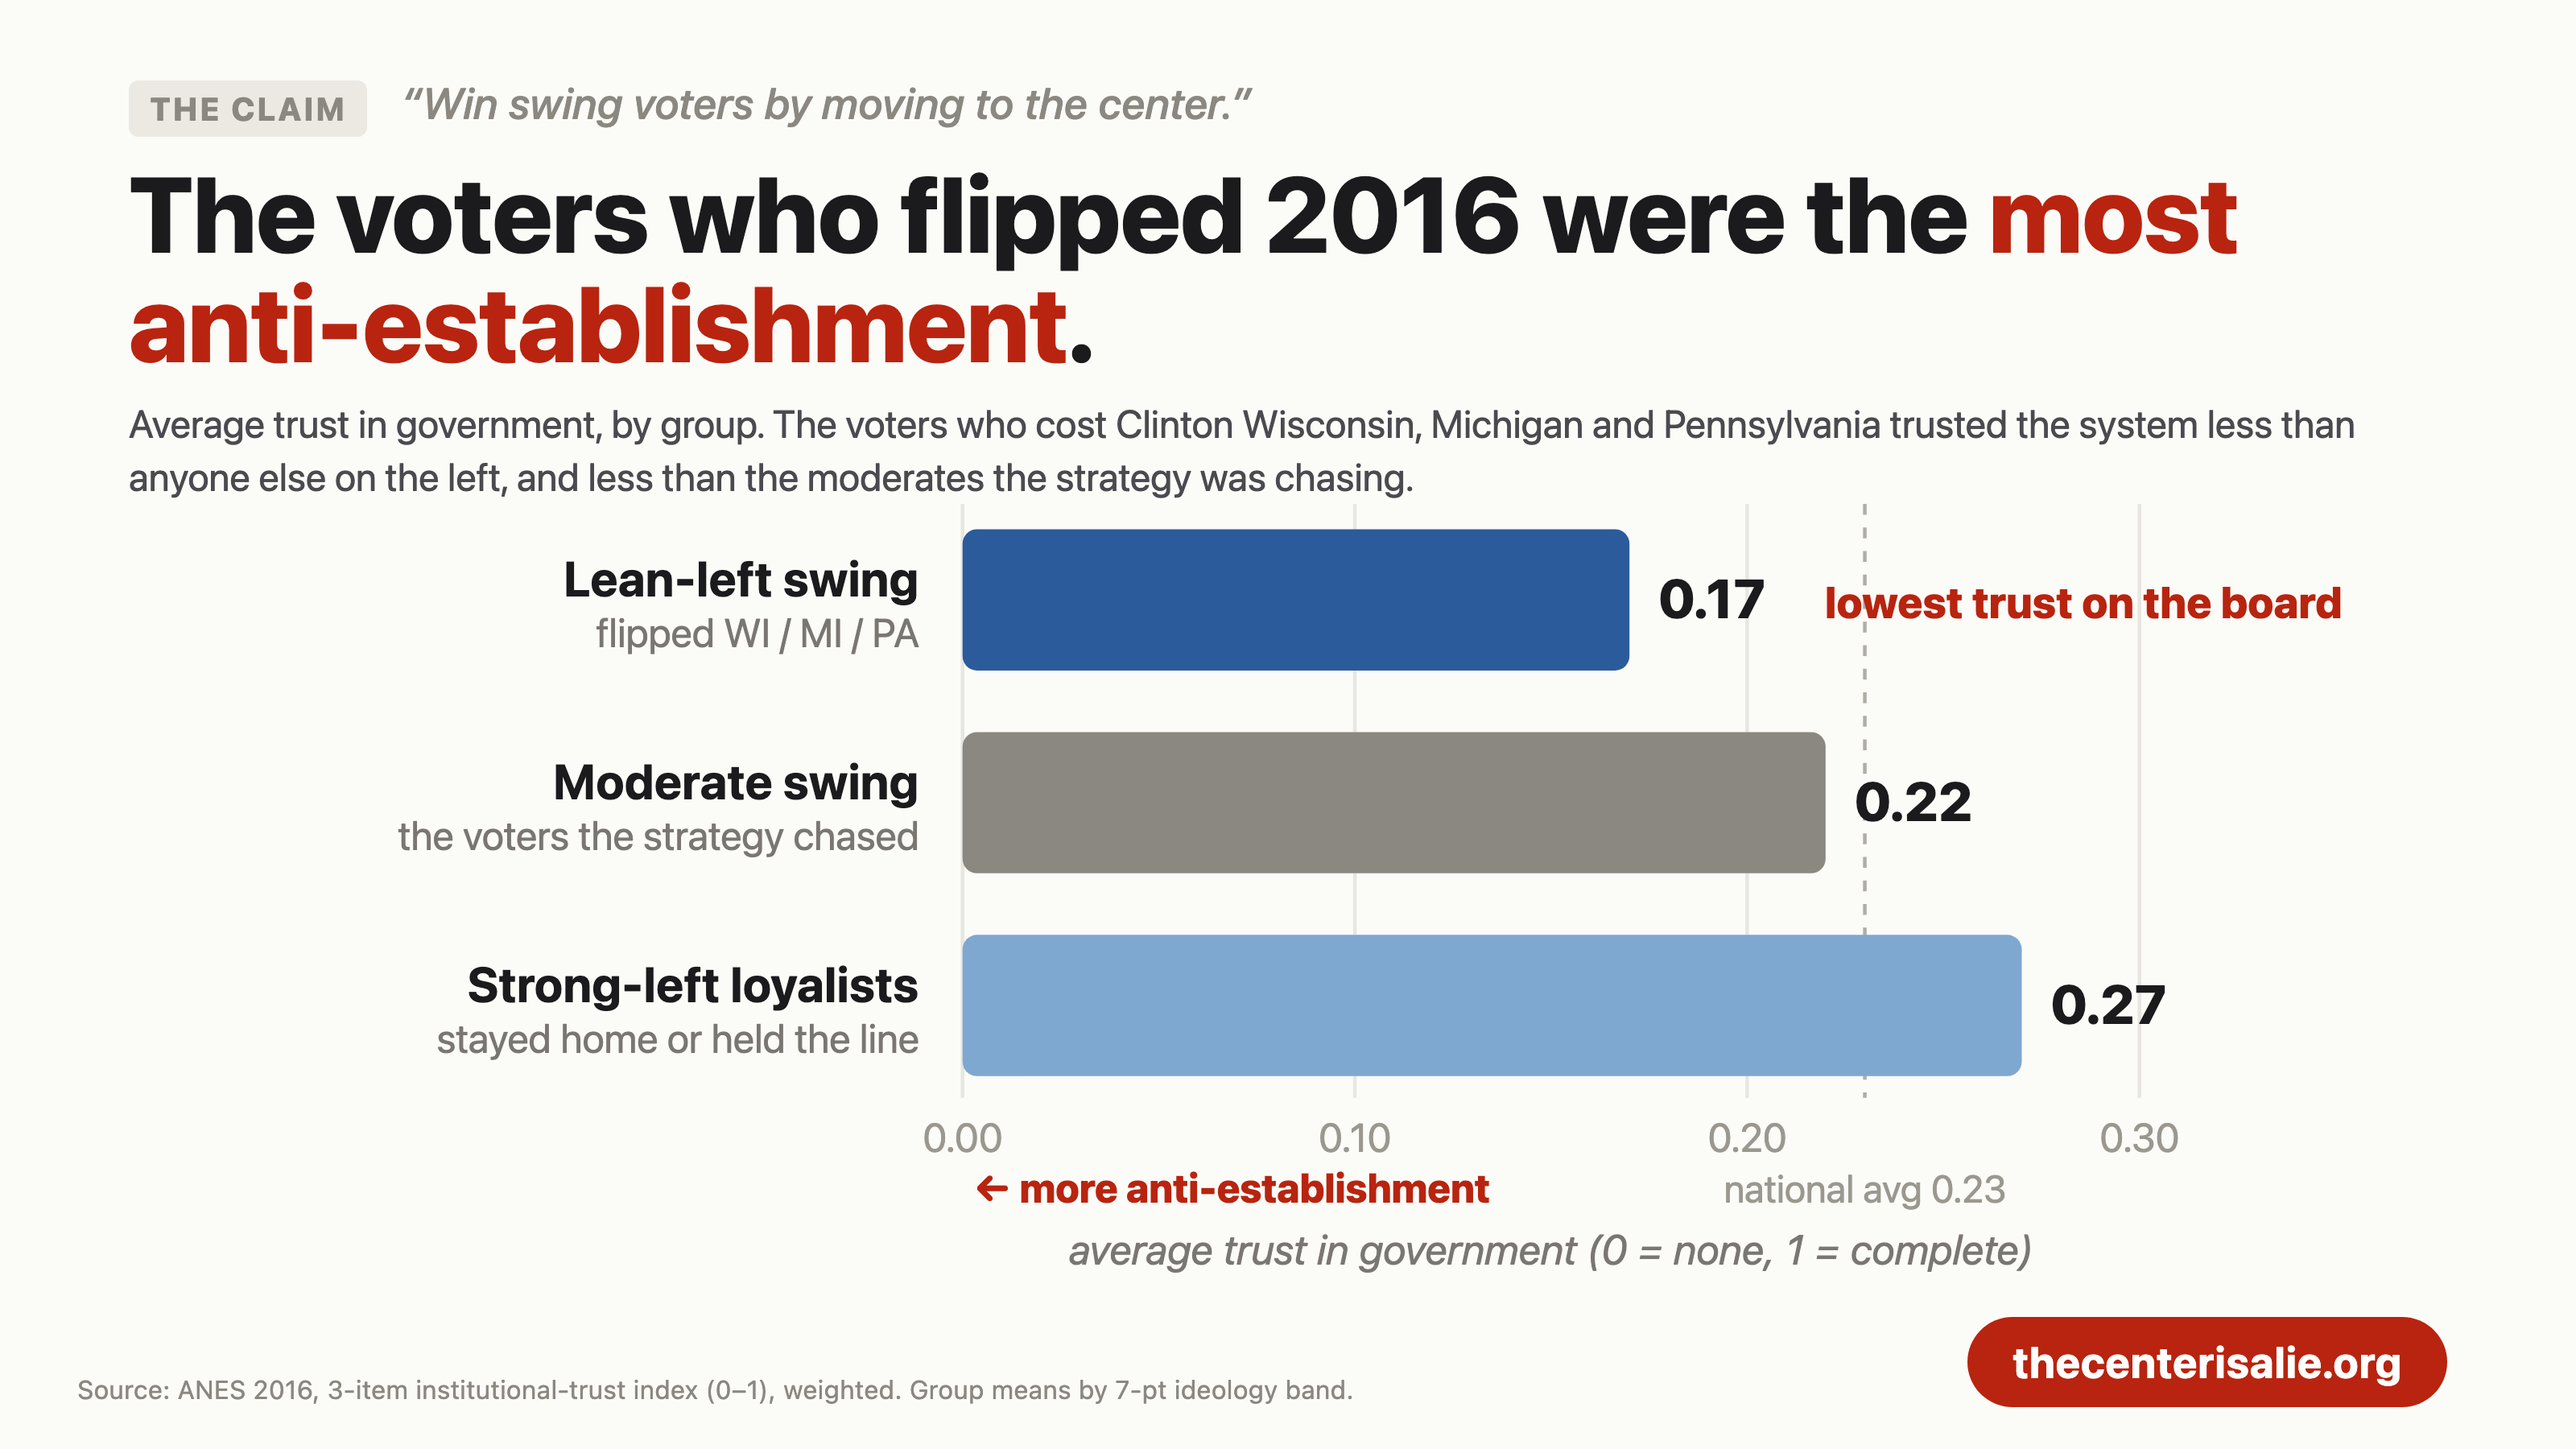
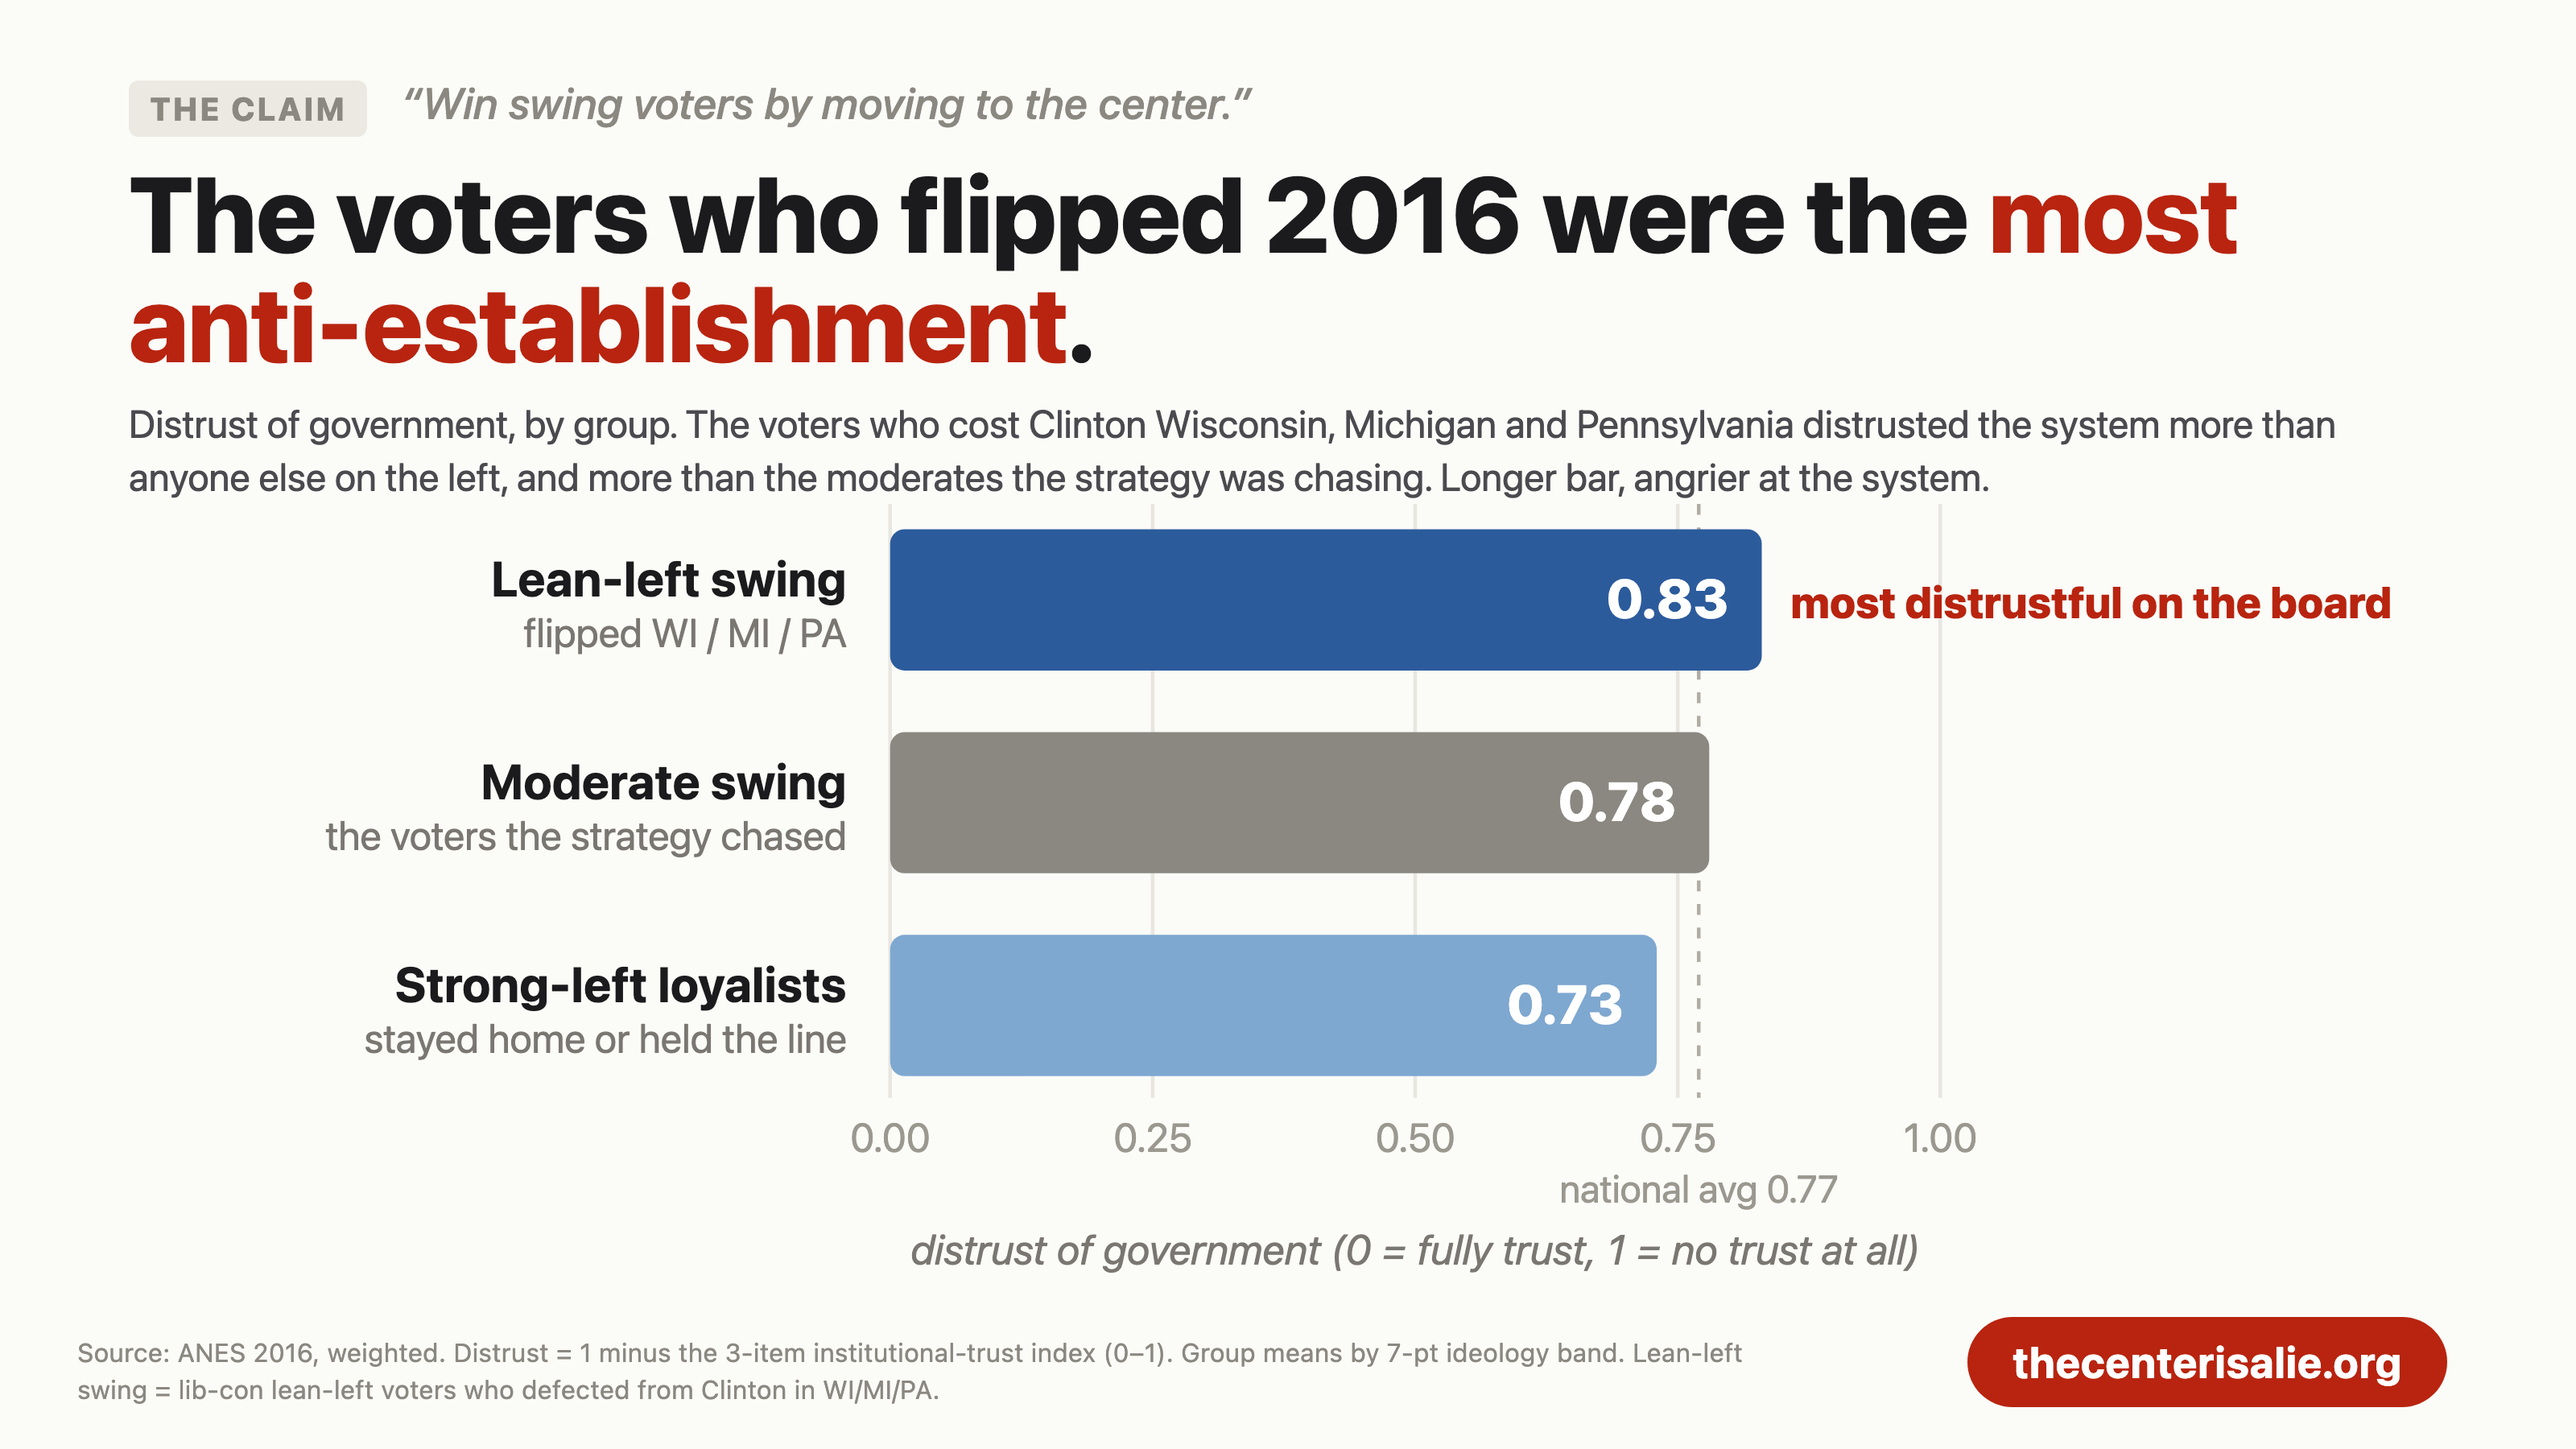
fix(og): reframe care to stakes-not-affection; badtrade to a distrust axis; alienated purple
care: the old framing ("people vote when it matters, nothing else comes close")
was tautological and invited "so just make them care." Reframed to the
non-obvious finding: turnout runs on stakes/fear, and warmth toward your own
candidate is slightly NEGATIVE, so a campaign optimising to be liked and
inoffensive is optimising the wrong variable. NOTE: the user proposed the
take-home should be "trust". That does not survive -- this project's own
corrected finding is that institutional trust does not predict turnout (approx
0); turnout tracks stakes, engagement and education. Built the honest version
and said so in the source line.

badtrade: plotted distrust (1 - trust) instead of trust so the flippers are the
LONGEST bar, fixing the bigger-reads-as-better inversion the user flagged. Full
0-1 axis, no truncation. Accepts the compression (0.73-0.83) as the honest cost.

alienated: swapped the red voter-category bar to purple per the colour rule.

diff --git a/web/og-cards/chart-badtrade.html b/web/og-cards/chart-badtrade.html
@@ -4,13 +4,13 @@
   <div class="chartcard">
     <div class="cc-claim"><span class="tag">The claim</span> &ldquo;Win swing voters by moving to the center.&rdquo;</div>
     <div class="cc-title">The voters who flipped 2016 were the <span class="hl">most anti-establishment</span>.</div>
-    <div class="cc-sub">Average trust in government, by group. The voters who cost Clinton Wisconsin, Michigan and Pennsylvania trusted the system less than anyone else on the left, and less than the moderates the strategy was chasing.</div>
+    <div class="cc-sub">Distrust of government, by group. The voters who cost Clinton Wisconsin, Michigan and Pennsylvania distrusted the system more than anyone else on the left, and more than the moderates the strategy was chasing. Longer bar, angrier at the system.</div>
 
     <div class="cc-chart"><svg id="bt" viewBox="0 0 1240 449" role="img"
-      aria-label="Average institutional trust: lean-left swing 0.17, moderate swing 0.22, strong-left loyalists 0.27"></svg></div>
+      aria-label="Distrust of government by group: lean-left swing 0.83, moderate swing 0.78, strong-left loyalists 0.73. The voters who flipped are the most distrustful."></svg></div>
 
     <div class="cc-foot">
-      <div class="cc-source">Source: ANES 2016, 3-item institutional-trust index (0&ndash;1), weighted. Group means by 7-pt ideology band.</div>
+      <div class="cc-source">Source: ANES 2016, weighted. Distrust = 1 minus the 3-item institutional-trust index (0&ndash;1). Group means by 7-pt ideology band. Lean-left swing = lib-con lean-left voters who defected from Clinton in WI/MI/PA.</div>
       <div class="cc-btn">thecenterisalie.org</div>
     </div>
   </div>
@@ -20,26 +20,24 @@
     const svg = document.getElementById('bt');
     const el = (t, a) => { const n = document.createElementNS(NS, t); for (const k in a) n.setAttribute(k, a[k]); return n; };
     const rows = [
-      { name: 'Lean-left swing', sub: 'flipped WI / MI / PA', v: 0.17, c: '#2c5b9c', hot: true },
-      { name: 'Moderate swing', sub: 'the voters the strategy chased', v: 0.22, c: '#8a8880' },
-      { name: 'Strong-left loyalists', sub: 'stayed home or held the line', v: 0.27, c: '#7ea8d0' },
+      { name: 'Lean-left swing', sub: 'flipped WI / MI / PA', v: 0.83, c: '#2c5b9c', hot: true },
+      { name: 'Moderate swing', sub: 'the voters the strategy chased', v: 0.78, c: '#8a8880' },
+      { name: 'Strong-left loyalists', sub: 'stayed home or held the line', v: 0.73, c: '#7ea8d0' },
     ];
-    const X0 = 440, X1 = 1090, VMAX = 0.30, sc = (X1 - X0) / VMAX;
+    const X0 = 400, X1 = 980, VMAX = 1.0, sc = (X1 - X0) / VMAX;
     const barH = 78, step = 112, y0 = 14, axisY = y0 + rows.length * step - 22;
-    // gridlines + ticks
-    for (let v = 0; v <= 0.3001; v += 0.10) {
+    // gridlines + ticks across the full 0-1 range, so there is no truncation
+    for (let v = 0; v <= 1.0001; v += 0.25) {
       const gx = X0 + v * sc;
       svg.appendChild(el('line', { x1: gx, y1: 0, x2: gx, y2: axisY, stroke: '#e8e6e0', 'stroke-width': 2 }));
       const t = el('text', { x: gx, y: axisY + 30, 'text-anchor': 'middle', fill: '#9a988f', 'font-size': 22 }); t.textContent = v.toFixed(2); svg.appendChild(t);
     }
-    // national-average reference
-    const nx = X0 + 0.23 * sc;
+    // national-average reference (distrust = 1 - 0.23)
+    const nx = X0 + 0.77 * sc;
     svg.appendChild(el('line', { x1: nx, y1: 0, x2: nx, y2: axisY, stroke: '#b0ada4', 'stroke-width': 2, 'stroke-dasharray': '6 7' }));
-    const nl = el('text', { x: nx, y: axisY + 58, 'text-anchor': 'middle', fill: '#9a988f', 'font-size': 21 }); nl.textContent = 'national avg 0.23'; svg.appendChild(nl);
+    const nl = el('text', { x: nx, y: axisY + 58, 'text-anchor': 'middle', fill: '#9a988f', 'font-size': 21 }); nl.textContent = 'national avg 0.77'; svg.appendChild(nl);
     const at = el('text', { x: (X0 + X1) / 2, y: axisY + 92, 'text-anchor': 'middle', fill: '#7a7772', 'font-size': 23, 'font-style': 'italic' });
-    at.textContent = 'average trust in government (0 = none, 1 = complete)'; svg.appendChild(at);
-    const ar = el('text', { x: X0 + 6, y: axisY + 58, 'text-anchor': 'start', fill: '#b8240f', 'font-size': 22, 'font-weight': 800 });
-    ar.textContent = '\u2190 more anti-establishment'; svg.appendChild(ar);
+    at.textContent = 'distrust of government (0 = fully trust, 1 = no trust at all)'; svg.appendChild(at);
     // bars
     rows.forEach((r, i) => {
       const yTop = y0 + i * step, mid = yTop + barH / 2;
@@ -47,9 +45,9 @@
       if (r.sub) { const s = el('text', { x: X0 - 24, y: mid + 26, 'text-anchor': 'end', fill: '#7a7772', 'font-size': 22 }); s.textContent = r.sub; svg.appendChild(s); }
       const w = r.v * sc;
       svg.appendChild(el('rect', { x: X0, y: yTop, width: w, height: barH, rx: 8, fill: r.c }));
-      const val = el('text', { x: X0 + w + 16, y: mid + 10, fill: '#1b1b1d', 'font-size': 30, 'font-weight': 800 }); val.textContent = r.v.toFixed(2); svg.appendChild(val);
-      if (r.hot) { const cl = el('text', { x: X0 + w + 108, y: mid + 10, fill: '#b8240f', 'font-size': 24, 'font-weight': 800 });
-        cl.textContent = 'lowest trust on the board'; svg.appendChild(cl); }
+      const val = el('text', { x: X0 + w - 18, y: mid + 10, 'text-anchor': 'end', fill: '#fff', 'font-size': 30, 'font-weight': 800 }); val.textContent = r.v.toFixed(2); svg.appendChild(val);
+      if (r.hot) { const cl = el('text', { x: X0 + w + 16, y: mid + 10, fill: '#b8240f', 'font-size': 24, 'font-weight': 800 });
+        cl.textContent = 'most distrustful on the board'; svg.appendChild(cl); }
     });
   </script>
 </body></html>

diff --git a/web/og-cards/chart-care.html b/web/og-cards/chart-care.html
@@ -2,15 +2,15 @@
 <html lang="en"><head><meta charset="utf-8"><link rel="stylesheet" href="./chart-card.css"></head>
 <body>
   <div class="chartcard">
-    <div class="cc-claim"><span class="tag">The claim</span> &ldquo;Low turnout is a mobilization-tactics problem.&rdquo;</div>
-    <div class="cc-title">People vote when the result <span class="hl">matters to them</span>. Nothing else comes close.</div>
-    <div class="cc-sub">2016 turnout, by whether the voter said they cared a good deal who won.</div>
+    <div class="cc-claim"><span class="tag">The claim</span> &ldquo;Fix turnout with better outreach: more doors, more ads, more enthusiasm.&rdquo;</div>
+    <div class="cc-title">People show up when the stakes are real, <span class="hl">not when they like you</span>.</div>
+    <div class="cc-sub">2016 turnout, by whether the voter felt the result mattered. That gap is the single biggest turnout lever in the data, and it survives even among low-engagement voters (52% vs 26%). Warmth toward your own candidate, by contrast, doesn&rsquo;t move turnout at all. A campaign that runs as the safe, inoffensive choice is lowering the one thing turnout depends on.</div>
 
     <div class="cc-chart"><svg id="care" viewBox="0 0 1240 449" role="img"
       aria-label="Turnout in 2016: 70.5% among voters who cared a good deal who won, 35.9% among those who did not"></svg></div>
 
     <div class="cc-foot">
-      <div class="cc-source">Source: ANES 2016; self-reported turnout by &ldquo;how much do you care who wins&rdquo;; weighted.</div>
+      <div class="cc-source">Source: ANES 2016, weighted; self-reported turnout by &ldquo;care a good deal who wins&rdquo; (V161005 &times; V162031x). The gap holds among low-engagement voters (52% vs 26%). In the weighted turnout model, &ldquo;care who wins&rdquo; is the top predictor and warmth-to-favorite is slightly negative (&minus;0.10); institutional trust does not predict turnout.</div>
       <div class="cc-btn">thecenterisalie.org</div>
     </div>
   </div>
@@ -22,8 +22,8 @@
     const txt = (a, s) => { const t = el('text', a); t.textContent = s; svg.appendChild(t); return t; };
 
     const rows = [
-      { name: 'Cared a good deal', v: 70.5, col: '#b8240f' },
-      { name: 'Didn’t care much', v: 35.9, col: '#b0ada4' },
+      { name: 'Felt the result mattered', v: 70.5, col: '#b8240f' },
+      { name: 'Didn’t feel it mattered', v: 35.9, col: '#b0ada4' },
     ];
     const X0 = 540, X1 = 1090, VMAX = 100, sc = (X1 - X0) / VMAX;
     const barH = 122, step = 196, y0 = 26;

diff --git a/web/og-cards/chart-alienated.html b/web/og-cards/chart-alienated.html
@@ -22,7 +22,7 @@
     const txt = (a, s) => { const t = el('text', a); t.textContent = s; svg.appendChild(t); return t; };
 
     const rows = [
-      { name: 'Alienated', sub: '“my vote doesn’t fix anything”', v: 53, col: '#b8240f', hot: true },
+      { name: 'Alienated', sub: '“my vote doesn’t fix anything”', v: 53, col: '#7a4fa3', hot: true },
       { name: 'Mixed', sub: 'neither clearly', v: 41, col: '#b0ada4' },
       { name: 'Complacent', sub: '“things are basically fine”', v: 6, col: '#b0ada4' },
     ];
@@ -37,11 +37,11 @@
     }
     rows.forEach((r, i) => {
       const yTop = y0 + i * step, mid = yTop + barH / 2;
-      txt({ x: X0 - 26, y: mid - 2, 'text-anchor': 'end', fill: r.hot ? '#b8240f' : '#1b1b1d', 'font-size': 33, 'font-weight': 800 }, r.name);
+      txt({ x: X0 - 26, y: mid - 2, 'text-anchor': 'end', fill: r.hot ? '#7a4fa3' : '#1b1b1d', 'font-size': 33, 'font-weight': 800 }, r.name);
       txt({ x: X0 - 26, y: mid + 32, 'text-anchor': 'end', fill: '#7a7772', 'font-size': 23 }, r.sub);
       const w = Math.max(r.v * sc, 5);
       svg.appendChild(el('rect', { x: X0, y: yTop, width: w, height: barH, rx: 8, fill: r.col }));
-      txt({ x: X0 + w + 20, y: mid + 16, fill: r.hot ? '#b8240f' : '#1b1b1d', 'font-size': 46, 'font-weight': 800 }, r.v + '%');
+      txt({ x: X0 + w + 20, y: mid + 16, fill: r.hot ? '#7a4fa3' : '#1b1b1d', 'font-size': 46, 'font-weight': 800 }, r.v + '%');
     });
   </script>
 </body></html>
